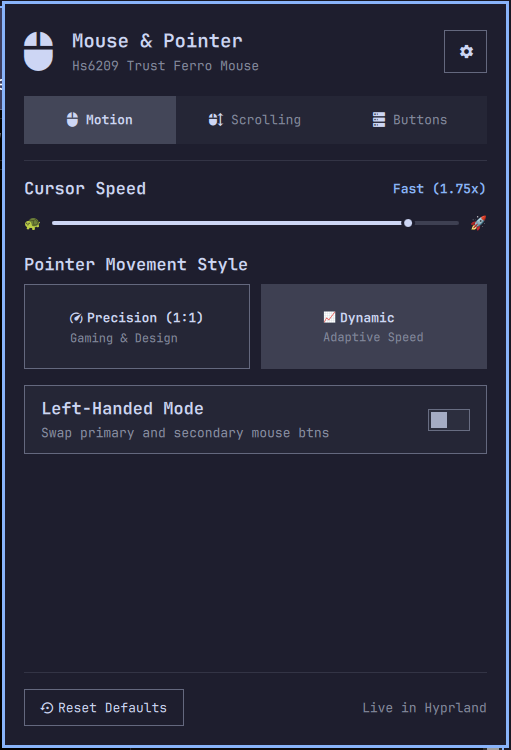
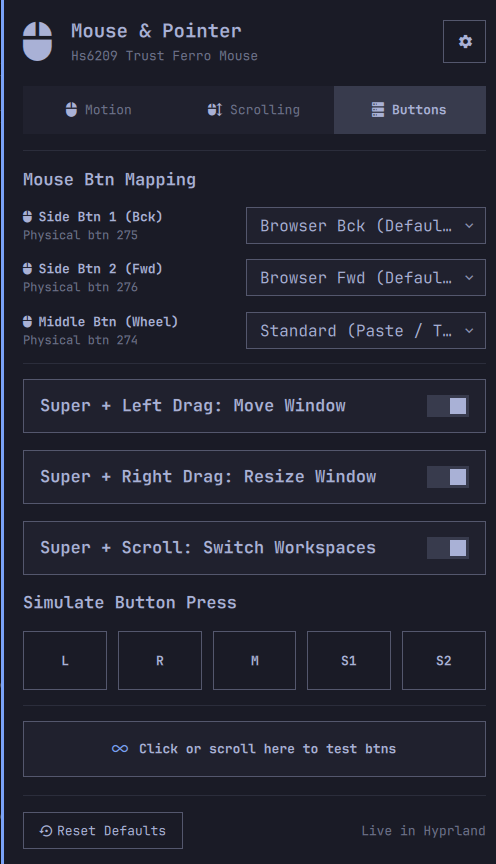
Add simulate-button-press feature, mouse battery indicator, smart device detection
- New 'Simulate Button Press' row (L/R/M/S1/S2 chips) in the Buttons tab and
  'simulate-button' CLI subcommand, emitting real synthetic presses via ydotool
  (user-level ydotoold; 0xC0-0xC4 codes, empirically verified against Hyprland binds)
- Mouse battery percentage in header/tooltip via upower, matched to the selected
  device only; hidden when the mouse does not report a battery
- Primary device detection now ranks real mice above keyboard consumer-control
  and virtual devices
- Popup height 560 -> 660 to fit the new row without clipping
- manifest version 1.1.0, refreshed preview.png

Closes #1

diff --git a/Panel.qml b/Panel.qml
@@ -82,6 +82,25 @@ Panel {
     lastToggleMs = now
     if (!toggleAccelProc.running) toggleAccelProc.running = true
   }
+
+  property double lastSimMs: 0
+
+  function simLabel(name) {
+    if (name === "left") return "Left Btn"
+    if (name === "right") return "Right Btn"
+    if (name === "middle") return "Middle Btn (274)"
+    if (name === "side_back") return "Side Btn 1 (Bck / 275)"
+    if (name === "side_forward") return "Side Btn 2 (Fwd / 276)"
+    return name
+  }
+
+  function simulateButton(name) {
+    var now = Date.now()
+    if (now - lastSimMs < 300) return
+    lastSimMs = now
+    simulateProc.command = ["python3", root.scriptPath(), "simulate-button", "--button", name]
+    if (!simulateProc.running) simulateProc.running = true
+  }
   function toggleNaturalScroll() {
     toggleScrollProc.running = true
   }
@@ -192,6 +211,29 @@ Panel {
   }
 
   Process {
+    id: simulateProc
+    stdout: StdioCollector {
+      waitForEnd: true
+      onStreamFinished: {
+        var output = text || ""
+        try {
+          var data = JSON.parse(output)
+          if (data.success) {
+            testBox.clickCount += 1
+            testBox.testMsg = "Simulated " + root.simLabel(data.button) + " (#" + testBox.clickCount + ")"
+            root.lastActionNote = "Sent"
+          } else {
+            root.lastActionNote = "Sim N/A"
+          }
+        } catch (e) {
+          root.lastActionNote = "Sim N/A"
+        }
+        clearNoteTimer.restart()
+      }
+    }
+  }
+
+  Process {
     id: configEditorProc
     command: ["omarchy-launch-config-editor", Quickshell.env("HOME") + "/.config/hypr/input.lua"]
   }
@@ -227,7 +269,7 @@ Panel {
     owner: root
     open: root.opened
     contentWidth: Style.space(380)
-    contentHeight: Style.space(560)
+    contentHeight: Style.space(660)
 
     ColumnLayout {
       anchors.fill: parent
@@ -260,7 +302,7 @@ Panel {
           }
 
           Text {
-            text: Model.formatDeviceName(root.status.primaryDevice)
+            text: Model.formatDeviceName(root.status.primaryDevice) + Model.formatBattery(root.status.battery, false)
             textFormat: Text.PlainText
             color: root.dim
             font.family: root.fontFamily
@@ -805,6 +847,53 @@ Panel {
               var cur = root.status.button_mappings ? root.status.button_mappings.super_wheel : "workspace_scroll"
               root.updateButtonMapping("super_wheel", cur === "disabled" ? "workspace_scroll" : "disabled")
             }
+          }
+
+          // Simulate Button Press Row
+          Text {
+            text: "Simulate Button Press"
+            color: root.foreground
+            font.family: root.fontFamily
+            font.pixelSize: Style.font.subtitle
+            font.bold: true
+          }
+
+          RowLayout {
+            Layout.fillWidth: true
+            spacing: Style.space(8)
+
+            Repeater {
+              model: Model.simulateButtons()
+
+              delegate: BorderSurface {
+                Layout.fillWidth: true
+                implicitHeight: Style.space(44)
+                radius: Style.cornerRadius
+                color: simArea.containsMouse ? Style.selectedFillFor(root.foreground, root.accent) : "transparent"
+                borderSpec: Border.controlSpec(simArea.containsMouse ? "hover-cursor" : "normal", root.foreground, root.accent)
+
+                Text {
+                  anchors.centerIn: parent
+                  text: modelData.label
+                  color: root.foreground
+                  font.family: root.fontFamily
+                  font.pixelSize: Style.font.caption
+                  font.bold: true
+                }
+
+                MouseArea {
+                  id: simArea
+                  anchors.fill: parent
+                  hoverEnabled: true
+                  cursorShape: Qt.PointingHandCursor
+                  onClicked: root.simulateButton(modelData.value)
+                }
+              }
+            }
+          }
+
+          PanelSeparator {
+            Layout.fillWidth: true
           }
 
           // Interactive Testing Box

diff --git a/Model.js b/Model.js
@@ -46,6 +46,23 @@ function middleClickOptions() {
   ]
 }
 
+function simulateButtons() {
+  return [
+    { value: "left", label: "L" },
+    { value: "right", label: "R" },
+    { value: "middle", label: "M" },
+    { value: "side_back", label: "S1" },
+    { value: "side_forward", label: "S2" }
+  ]
+}
+
+function formatBattery(battery, withModel) {
+  if (!battery || battery.percent === undefined || battery.percent === null) return ""
+  var s = " · 🔋 " + Math.round(Number(battery.percent)) + "%"
+  if (withModel && battery.model) s += " (" + battery.model + ")"
+  return s
+}
+
 function getOptionLabel(options, val) {
   for (var i = 0; i < options.length; i++) {
     if (options[i].value === val) return options[i].label
@@ -58,5 +75,5 @@ function getTooltipText(status) {
   var dev = formatDeviceName(status.primaryDevice || "Mouse")
   var mode = status.accel_profile === "flat" ? "Precision (1:1)" : "Dynamic"
   var spd = formatSpeed(status.sensitivity)
-  return dev + " · " + mode + " · " + spd
+  return dev + " · " + mode + " · " + spd + formatBattery(status.battery, true)
 }

diff --git a/mouse_ctl.py b/mouse_ctl.py
@@ -15,6 +15,7 @@ import json
 import math
 import os
 import re
+import shutil
 import subprocess
 import sys
 import tempfile
@@ -47,6 +48,14 @@ ALLOWED_BUTTON_ACTIONS = {
     "super_left": {"move_window", "disabled"},
     "super_right": {"resize_window", "disabled"},
     "super_wheel": {"workspace_scroll", "disabled"}
+}
+
+SIMULATE_BUTTON_CODES = {
+    "left": "0xC0",
+    "right": "0xC1",
+    "middle": "0xC2",
+    "side_back": "0xC3",
+    "side_forward": "0xC4"
 }
 
 @contextmanager
@@ -186,9 +195,46 @@ def get_devices():
                 "defaultSpeed": validate_float(m.get("defaultSpeed"), 0.0, -1.0, 1.0),
                 "scrollFactor": validate_float(m.get("scrollFactor"), 1.0, 0.1, 10.0)
             })
+        # Rank real mice first: keyboard "consumer control" and virtual devices
+        def _mouse_rank(name_l):
+            if "mouse" in name_l:
+                return 0
+            if "keyboard" in name_l or "consumer" in name_l or "virtual" in name_l:
+                return 2
+            return 1
+        clean_mice.sort(key=lambda d: _mouse_rank(d["name"].lower()))
         return clean_mice
     except Exception:
         return []
+
+def get_battery(primary_name=""):
+    """Read the battery of the selected mouse itself via upower, if it reports one.
+    Matches the UPower battery model against the device name so another
+    peripheral's battery (e.g. a keyboard) is never shown."""
+    code, out, _ = run_cmd(["upower", "-e"])
+    if code != 0 or not out:
+        return None
+    dev_tokens = set(re.findall(r"[a-z0-9]+", primary_name.lower()))
+    dev_tokens.discard("mouse")
+    for hid_path in [ln.strip() for ln in out.splitlines() if "battery_hid" in ln]:
+        code, info, _ = run_cmd(["upower", "-i", hid_path])
+        if code != 0 or not info:
+            continue
+        pct_match = re.search(r"percentage:\s*([0-9]*\.?[0-9]+)%", info)
+        if not pct_match:
+            continue
+        state_match = re.search(r"state:\s*(\S+)", info)
+        model_match = re.search(r"model:\s*(.+)", info)
+        model = model_match.group(1).strip() if model_match else ""
+        model_tokens = set(re.findall(r"[a-z0-9]+", model.lower()))
+        if dev_tokens and (dev_tokens & model_tokens):
+            return {
+                "percent": validate_float(pct_match.group(1), 0.0, 0.0, 100.0),
+                "state": state_match.group(1) if state_match else "unknown",
+                "model": model
+            }
+    return None
+
 
 def read_saved_input_settings():
     """Reads settings previously saved in the marker block of input.lua."""
@@ -298,7 +344,7 @@ def get_current_status():
     return {
         "devices": devices,
         "primaryDevice": devices[0]["name"] if devices else "Standard Mouse",
-        "sensitivity": sensitivity,
+        "battery": get_battery(devices[0]["name"] if devices else ""),
         "accel_profile": accel_profile,
         "is_flat": (accel_profile == "flat"),
         "follow_mouse": follow_mouse,
@@ -306,6 +352,7 @@ def get_current_status():
         "left_handed": left_handed,
         "scroll_factor": scroll_factor,
         "mouse_refocus": mouse_refocus,
+        "battery": get_battery(),
         "button_mappings": button_mappings
     }
 
@@ -491,11 +538,31 @@ def main():
     # reset
     subparsers.add_parser("reset-defaults", help="Reset mouse settings to default")
 
+    # simulate button press (ydotool)
+    simulate_parser = subparsers.add_parser("simulate-button", help="Emit a synthetic mouse button press via ydotool")
+    simulate_parser.add_argument("--button", type=str, required=True, choices=sorted(SIMULATE_BUTTON_CODES.keys()))
+
     args = parser.parse_args()
 
     if args.command == "status" or not args.command:
         state = get_current_status()
         print(json.dumps(state, indent=2))
+        return
+
+    if args.command == "simulate-button":
+        code = SIMULATE_BUTTON_CODES[args.button]
+        if shutil.which("ydotool") is None:
+            print(json.dumps({"success": False, "error": "ydotool not installed"}))
+            return
+        ret, out, err_out = run_cmd(["ydotool", "click", "-D", "50", code])
+        if ret == 0:
+            print(json.dumps({"success": True, "button": args.button}))
+        else:
+            err_l = (err_out + "\n" + out).lower()
+            if "socket" in err_l or "connect" in err_l or "ydotoold" in err_l or "failed to open" in err_l:
+                print(json.dumps({"success": False, "error": "ydotoold unavailable"}))
+            else:
+                print(json.dumps({"success": False, "error": err_out.strip() or f"ydotool exited {ret}"}))
         return
 
     with file_lock():

diff --git a/README.md b/README.md
@@ -4,7 +4,7 @@
 [![License: MIT](https://img.shields.io/badge/License-MIT-yellow.svg?style=flat-square)](LICENSE)
 [![Hyprland Ready](https://img.shields.io/badge/Hyprland-Native-teal?style=flat-square)](https://hyprland.org)
 
-A modern, secure, and intuitive graphical mouse and pointer configuration tool for [Omarchy Linux](https://omarchy.org). Adjust cursor speed, toggle between 1:1 precision and adaptive acceleration, customize scroll behavior, remap extra mouse buttons, and test input events in real time—all with instant Hyprland application and zero config breakage.
+A modern, secure, and intuitive graphical mouse and pointer configuration tool for [Omarchy Linux](https://omarchy.org). Adjust cursor speed, toggle between 1:1 precision and adaptive acceleration, customize scroll behavior, remap extra mouse buttons, simulate button presses, and test input events in real time—all with instant Hyprland application and zero config breakage.
 
 
 <p align="center">
@@ -37,6 +37,9 @@ A modern, secure, and intuitive graphical mouse and pointer configuration tool f
 - **📜 Multiplier & Natural Scrolling**: Adjust scroll sensitivity up to 8.0x and toggle natural (touchpad/macOS-style) direction.
 - **🛡 Enterprise-Grade Reliability**: Built with atomic writes (`os.replace` + `fsync`), POSIX concurrency file locks (`fcntl.flock`), symlink attack prevention, and strict parameter allowlists.
 - **🧪 Live Input Verification**: Built-in interactive test canvas confirms button presses, side keys, and scroll directions immediately.
+- **🖱 Simulate Any Button Press**: Emit real synthetic presses of Left, Right, Middle (274), Side Bck (275), or Side Fwd (276) from the Buttons tab or the CLI — test button remaps and Hyprland binds without having the physical buttons (powered by `ydotool`).
+- **🔋 Mouse Battery Indicator**: Shows the remaining battery percentage of your wireless mouse in the panel header and tooltip (via `upower`) — automatically hidden when the mouse does not report a battery, and never confused with other peripherals' batteries.
+- **🎯 Smart Device Detection**: Identifies your actual mouse even when keyboards and virtual devices appear in Hyprland's pointer list.
 
 ---
 
@@ -114,6 +117,10 @@ Easily customize non-standard physical buttons and gesture shortcuts:
 | **Super + Right Drag** | `SUPER + mouse:273` | • **Resize Window** (`resizewindow`) or **Disabled** |
 | **Super + Wheel Scroll** | `SUPER + mouse_up/down` | • **Switch Workspaces** (`workspace, e-1 / e+1`) or **Disabled** |
 
+Below the remapping dropdowns, the **Simulate Button Press** row offers five equal-width chips (`L`, `R`, `M`, `S1`, `S2`). Clicking one sends a synthetic press of that physical button via `ydotool` — it feeds a real input event into Hyprland, so remapped actions fire and the interactive testing canvas below reports the detection exactly as if you had pressed the hardware button. Requires the `ydotoold` daemon (see Installation).
+
+**Battery Indicator**: When your mouse reports a battery level over HID (most Logitech and newer wireless mice do), the remaining percentage appears next to the device name in the popup header and in the bar icon tooltip, sourced via `upower`. Mice whose firmware does not expose the HID battery page (many budget 2.4 GHz receivers) simply show no indicator.
+
 ---
 
 ### Interactive Testing Canvas
@@ -137,7 +144,14 @@ omarchy plugin add https://github.com/meviusisback/mouse-settings --enable
 
 ### Manual Installation
 
-Not required — the plugin manager command above works from any git URL and
+Prerequisite for button simulation:
+
+```bash
+sudo pacman -S ydotool
+systemctl --user enable --now ydotool.service
+```
+
+Not required for core settings — the plugin manager command above works from any git URL and
 handles updates via `omarchy plugin update`. Cloning by hand into
 `~/.config/omarchy/plugins/` is discouraged: it skips manifest-managed
 lifecycle and will not be tracked for updates.
@@ -189,6 +203,9 @@ python3 ~/.config/omarchy/plugins/meviusisback.mouse-settings/mouse_ctl.py apply
 
 # Reset all mouse settings and button bindings to defaults
 python3 ~/.config/omarchy/plugins/meviusisback.mouse-settings/mouse_ctl.py reset-defaults
+
+# Simulate a physical mouse button press via ydotool
+python3 ~/.config/omarchy/plugins/meviusisback.mouse-settings/mouse_ctl.py simulate-button --button side_back   # left|right|middle|side_back|side_forward
 ```
 
 ---
